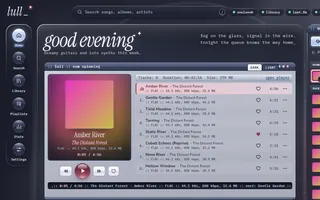
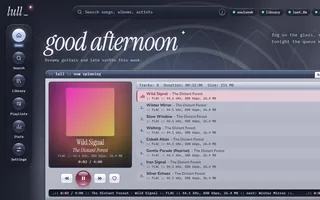
feat(web): glasshouse is a desktop of glass windows standing in a conservatory
The page no longer sits in one big frosted pane: its windows float straight on the
wall, each a near-solid slab of glass with the moonlit rim and a long shadow, and the
wall is now the night seen through a glasshouse's pointed arches (baked into the
four wall pictures). Every window, gadget and the section list ends on a real foot
(a frame strip with a size grip) instead of a sticky one that cut rows and the Home
media window's keys; a page taller than its room fades out at the scroller's two
edges.

Wide screens are used: Stats stacks its windows in as many columns as fit, a
Settings section flows into columns inside its window (each row whole), Home's media
window lists its songs in two columns with covers, Now Playing is a centred
composition with a larger stage and bigger lyrics, and the collapsed side panel is
a capsule of round keys instead of a window-tall empty frame. A short laptop room
compacts the greeting and the deck so the media window is whole on the first screen;
the 1100-1359 side panel dims the page it lies over; the greeting's descender, the
skin tabs over the title-bar beads and the like key on the Now Playing cover no
longer collide; a phone's title bars with links drop their beads instead of
shortening the title. New picker pictures.

Checked at 390, 820, 1280, 1366, 1920 and 2560 px, day and night, with the queue
open and closed (Home, Settings, Stats, Now Playing, album, search, library, menus,
[…]

diff --git a/web/designs/glasshouse/theme.css b/web/designs/glasshouse/theme.css
@@ -1,14 +1,18 @@
-/* glasshouse: a silvery-glass Y2K media desktop after midnight (moodboard 03 + 05 + 01), "after-midnight aero".
-   Everything floats on the misty night: the page is one big frosted pane with a bright moonlit rim, the menu a glass
-   shelf of round keys, the logo, search and buttons stand on the night itself, and the player is a glass console
-   hovering under the page (the song, the rose play orb, the tools in a smoky pill, the seek a dark screen ribbon).
-   Every window on the pane is an aero window with a title bar and glossy beads, and ends on a foot of its own: what it
-   can't show scrolls behind that foot, so no window is ever cut by the page's edge or reaches the console (Windows).
+/* glasshouse: a silvery-glass Y2K media desktop after midnight (moodboard 03 + 05 + 01), "after-midnight aero", standing in
+   a conservatory: the wall behind it is the night seen through a glasshouse's pointed arches of steel and glass.
+   A real desktop: the windows float straight on that wall, each a slab of glass with a bright moonlit rim and a long
+   shadow, and a page spreads them over all the room it has (Stats' windows in columns, a Settings section flowing into
+   columns inside its window, Home's media window listing its songs in two). The menu is a glass shelf of round keys,
+   the logo, search and buttons stand on the night itself, and the player is a glass console hovering under the page
+   (the song, the rose play orb, the tools in a smoky pill, the seek a dark screen ribbon).
+   Every window is an aero window with a title bar and glossy beads and ends on a foot of its own (a frame strip with a
+   size grip), always whole: a page that is taller than its room scrolls under soft fades at its two edges, never
+   behind a fake edge of a window or cut flat by the console. The side panel, collapsed, is a capsule of round keys.
    Now Playing is a stage: the cover floats large with its colours glowing behind it and a faint reflection.
    Night is home, day is pale pearl. Every rule is scoped under :root[data-design="glasshouse"].
    Glass: solid token fills by default; translucency + blur only under @supports (backdrop-filter). Text on glass is
    checked on the worst composite (fill over the darkest / lightest wallpaper stop), see the check: comments.
-   Sections: fonts, tokens, contrast checks, wallpaper + captions, type, windows (the pane, windows, feet), controls,
+   Sections: fonts, tokens, contrast checks, wallpaper + captions, type, windows (the desktop, windows, feet), controls,
    rows + tiles + covers, seek, shell (header, shelf, status gadget, console, queue gadget, tablet), screens (home,
    search, library, stats + settings + welcome, empty states, banners, overlays), now playing (the stage), mini player,
    classic, phone, motion, wide screens, the see-through window. */
@@ -85,11 +89,9 @@
   --gh-lit-1: #eef4ff; --gh-lit-2: #b9cdee; --gh-lit-3: #93b0de; --gh-lit-edge: #4d6696;
   --gh-lcd: linear-gradient(180deg, #232840, #2a3048); --gh-lcd-edge: #1a1e2e;
   --gh-ok: #2f8f5f; --gh-warn: #b07a12; --gh-down: #c0405f; --gh-ring: #f8f8fc;
-  /* the pane (the page's one big frosted sheet), its moonlit rim, and a window's and a gadget's body made solid where
-     its foot fades the rows passing behind it (their glass composited over what lies under it, measured) */
-  --gh-pane: rgba(246, 247, 252, .5); --gh-pane-sheen: rgba(255, 255, 255, .7);
-  --gh-rim-grad: linear-gradient(155deg, rgba(255, 255, 255, 1) 0%, rgba(255, 255, 255, .35) 18%, rgba(255, 255, 255, 0) 42%, rgba(255, 255, 255, 0) 68%, rgba(255, 255, 255, .55) 100%);
-  --gh-win-solid: #f3f4f9; --gh-gadget-solid: #eceef5;
+  /* a page window's body: its glass fill composited over the wall (measured, see the check: comments) and made solid, so
+     the wall's stars and rings never show in it; the lighter stop under its title bar, the gadgets keep their smoky glass */
+  --gh-win-1: #f2f3f8; --gh-win-2: #e9ebf4;
 }
 :root[data-design="glasshouse"][data-theme="night"] {
   --cream: #c9ccd8; --cream-2: #bdc0cd; --cream-3: #b1b4c2;
@@ -129,9 +131,7 @@
   --gh-lit-1: #8ea6d2; --gh-lit-2: #5b75a6; --gh-lit-3: #3f5786; --gh-lit-edge: #c9d6f0;
   --gh-lcd: linear-gradient(180deg, #11131c, #1d2131); --gh-lcd-edge: #0b0d14;
   --gh-ok: #6fd6a0; --gh-warn: #f0c060; --gh-down: #f08aa4; --gh-ring: #2a2e40;
-  --gh-pane: rgba(20, 23, 35, .56); --gh-pane-sheen: rgba(255, 255, 255, .09);
-  --gh-rim-grad: linear-gradient(155deg, rgba(255, 255, 255, .7) 0%, rgba(214, 226, 255, .22) 18%, rgba(255, 255, 255, 0) 42%, rgba(255, 255, 255, 0) 68%, rgba(243, 193, 207, .38) 100%);
-  --gh-win-solid: #a7abba; --gh-gadget-solid: #262a3a;
+  --gh-win-1: #b9bccb; --gh-win-2: #a9acba;
 }
 /* shape, depth and shared recipes (theme-invariant; the var() inside resolve per theme on :root) */
 :root[data-design="glasshouse"] {
@@ -144,12 +144,10 @@
   --stack-press: 0 6px 16px -12px var(--gh-cast);
   /* a slab floating over the night casts a long soft shadow */
   --gh-float: 0 34px 60px -34px var(--gh-cast), 0 10px 22px -16px var(--gh-cast);
-  --gh-r-pane: 26px;
   --gh-barh: 30px;
-  /* a window's foot: the frame strip it ends on, and the mist above it that the rows passing behind fade into */
-  --gh-foot: 11px; --gh-foot-mist: 18px;
-  /* the pane's own foot under its windows, and the room the scroller keeps at its end */
-  --gh-sill: 16px;
+  /* a window's foot: the frame strip it ends on; the sill is the room the page's scroller keeps at its end */
+  --gh-foot: 12px;
+  --gh-sill: 28px;
   --gh-bar: linear-gradient(180deg, var(--gh-bar-1) 0%, var(--gh-bar-2) 48%, var(--gh-bar-3) 52%, var(--gh-bar-4) 100%);
   --gh-lit: linear-gradient(180deg, #eef4ff 0%, #b9cdee 50%, #a9c1e8 51%, #c3d5f1 100%);   /* the lit glass key (ink text) */
   --gh-orb: radial-gradient(120% 90% at 50% 100%, #c97a92 0%, #8e3f58 46%, #6e2a42 74%);    /* rose gloss body (white text) */
@@ -341,7 +339,7 @@
      lens rings left out, as a blur this wide wipes them out (docs/themes.md, Drawing cheaply). So does the AIMP window,
      whose ticker would have its blur redone 20 times a second at rest, and a card showing the empty state's blinking caret
      (Now Playing's lyrics card with no lyrics); it repaints as the page scrolls, which costs less.
-     From tablet up the windows on the pane need no blur at all (the pane, below). Elsewhere (a phone's page, Now
+     From tablet up the windows on the page need no blur at all (they are near solid, below). Elsewhere (a phone's page, Now
      Playing's stage) the other windows move over the wallpaper as the page scrolls, and a fixed wallpaper under each
      would repaint them all on every scroll frame, so they blur live, as do a sheet, a menu, a toast and the queue sliding
      over the page: what is under them moves. Each rule weighs what the glass rule above weighs (:where), so a window's
@@ -359,12 +357,12 @@
   }
 }
 
-/* the refraction rim of every floating slab (the pane, the shelf, the console, the gadgets, the media window): a 1.5 px
+/* the refraction rim of every floating slab (the shelf, the console, the gadgets, the media window): a 1.5 px
    gradient ring over its own border, bright where the moon catches it (top left), drawn by a pseudo-element that only
    paints the ring. It lies under the slab's own content (the slab is a stacking context of its own): a ring drawn
-   over it would be a layer of its own wherever something composited (a window rising in, a sticky foot) passes under */
-:root[data-design="glasshouse"] :is(.main, .rail, .pbar, .ctx, .nowcol, .gh-np__win) { isolation: isolate; }
-:root[data-design="glasshouse"] :is(.main, .rail, .pbar, .ctx, .nowcol, .gh-np__win)::after {
+   over it would be a layer of its own wherever something composited (a window rising in) passes under */
+:root[data-design="glasshouse"] :is(.rail, .pbar, .ctx, .nowcol, .gh-np__win) { isolation: isolate; }
+:root[data-design="glasshouse"] :is(.rail, .pbar, .ctx, .nowcol, .gh-np__win)::after {
   content: ""; position: absolute; inset: 0; z-index: -1; border-radius: inherit; padding: 1.5px; pointer-events: none;
   background: var(--gh-rim-grad);
   -webkit-mask: linear-gradient(#000 0 0) content-box, linear-gradient(#000 0 0); -webkit-mask-composite: xor;
@@ -372,9 +370,8 @@
 }
 
 /* every card is a window: its head (visible or the revealed hidden one) becomes the aero title bar over an in-flow
-   spacer as tall as the bar and 18 px of air (--gh-air), not over a padding, so the window's foot can rise all the
-   way to its top: a window only just come in from below shows its own foot, rolled up under its bar, never a bar cut
-   by the page's edge. --gh-pad is its padding, which its foot reaches across */
+   spacer as tall as the bar and 18 px of air (--gh-air), not over a padding. --gh-pad is its padding, which its foot
+   reaches across */
 :root[data-design="glasshouse"] .card {
   border: 1px solid var(--gh-frame); border-radius: var(--r-card);
   box-shadow: inset 0 1px 0 var(--gh-rim), inset 0 0 0 1px color-mix(in srgb, var(--gh-rim) 45%, transparent), var(--stack);
@@ -385,58 +382,48 @@
 }
 :root[data-design="glasshouse"] .card::before { content: ""; display: block; flex: none; grid-column: 1 / -1; height: calc(var(--gh-barh) + var(--gh-air, 18px)); }
 :root[data-design="glasshouse"] .card--flush { --gh-pad: 0px; --gh-air: 0px; }
-/* a window's foot: whatever the window can't show scrolls behind it. It sticks to its scroller's foot, so a window
-   taller than its room ends there on its own frame, never on the page's edge or under the console; at rest it is the
-   window's bottom edge, under the window's padding. The mist over its frame strip (the window's body made solid,
-   --gh-foot-solid) fades the rows passing behind it, and a size grip sits in its corner. A grid window spans it across
-   its columns. The gadgets and Settings' section list end on the same foot (below) */
-:root[data-design="glasshouse"] .card { --gh-foot-solid: var(--gh-win-solid); --gh-foot-r: var(--r-card); }
+/* a window's foot: the frame strip every window (and every gadget) ends on, a real edge with a size grip in its corner.
+   It sits after the window's last row, so a window is always whole: what a page or a list can't show scrolls off its
+   scroller's soft edge (the fade below), never behind a fake edge of the window's own. A grid window spans it across its
+   columns. --gh-pad is the window's padding, which its foot reaches across */
+:root[data-design="glasshouse"] .card { --gh-foot-r: var(--r-card); }
 :root[data-design="glasshouse"] .card::after,
 :root[data-design="glasshouse"] :is(.ctx, .nowcol)::before,
 :root[data-design="glasshouse"] .sys-nav::after {
-  content: ""; display: block; flex: none; height: calc(var(--gh-foot-mist) + var(--gh-foot)); pointer-events: none;
+  content: ""; display: block; flex: none; height: var(--gh-foot); pointer-events: none;
   border-radius: 0 0 calc(var(--gh-foot-r) - 1px) calc(var(--gh-foot-r) - 1px);
   background:
     radial-gradient(circle, var(--gh-frame) 0 .9px, transparent 1.3px) right 5px bottom 2px / 4px 4px no-repeat,
     radial-gradient(circle, var(--gh-frame) 0 .9px, transparent 1.3px) right 9px bottom 2px / 4px 4px no-repeat,
     radial-gradient(circle, var(--gh-frame) 0 .9px, transparent 1.3px) right 5px bottom 6px / 4px 4px no-repeat,
-    linear-gradient(var(--gh-frame), var(--gh-frame)) 0 calc(100% - var(--gh-foot)) / 100% 1px no-repeat,
-    linear-gradient(180deg, color-mix(in srgb, #fff 55%, var(--gh-bar-2)), var(--gh-bar-2) 40%, var(--gh-bar-4)) 0 100% / 100% var(--gh-foot) no-repeat,
-    linear-gradient(180deg, color-mix(in srgb, var(--gh-foot-solid) 0%, transparent), var(--gh-foot-solid)) 0 0 / 100% var(--gh-foot-mist) no-repeat;
+    linear-gradient(var(--gh-frame), var(--gh-frame)) 0 0 / 100% 1px no-repeat,
+    linear-gradient(180deg, color-mix(in srgb, #fff 55%, var(--gh-bar-2)), var(--gh-bar-2) 40%, var(--gh-bar-4));
 }
-:root[data-design="glasshouse"] .card::after {
-  position: sticky; bottom: 0; z-index: 2; grid-column: 1 / -1;
-  margin: max(0px, calc(var(--gh-pad) - var(--gh-foot-mist))) calc(-1 * var(--gh-pad)) calc(-1 * var(--gh-pad));
-}
+:root[data-design="glasshouse"] .card::after { grid-column: 1 / -1; margin: var(--gh-pad) calc(-1 * var(--gh-pad)) calc(-1 * var(--gh-pad)); }
 /* grid windows keep their own top padding (a spacer would take a grid cell) */
 :root[data-design="glasshouse"] .card:is(.gh-aimp, .sys-tile)::before { display: none; }
 
-/* the page: from tablet up, one frosted pane floating on the night, baked (it never moves) with the rim and a long
-   shadow; its windows are lighter sheets of the same frost with no blur of their own (the pane under them is already
-   frosted and still), so a scroll costs no blur at all. Its scroller ends --gh-sill above the pane's lower edge: the
-   windows' feet ride there, on the pane's own glass. The scroller keeps that much room at its end, so the last window
-   rests whole above it. Now Playing has no pane: its stage stands on the night (below). The pane is a size container
+/* the page is a desktop: its windows float straight on the night, each with the rim and the long shadow of a slab of
+   glass, no sheet under them. The scroller (.view) runs the height of the room above the console and its two edges fade
+   out (a mask: one static layer), so a window that scrolls off is never cut flat by a line, and a window is always whole
+   inside it: it ends on its own foot (above). A window's fill is nearly solid: windows stand apart on the wall, so there
+   is nothing behind one to blur, and the wall's stars and lens rings stay out of them. The scroller is a size container
    (still named main), so what must fit its room can read its height (100cqb). */
-:root[data-design="glasshouse"] .main > .view { padding-bottom: 0; }
+:root[data-design="glasshouse"] .main > .view { padding-bottom: 0; --gh-fade-t: 20px; --gh-fade-b: 36px;
+  -webkit-mask-image: linear-gradient(180deg, transparent 0, #000 var(--gh-fade-t), #000 calc(100% - var(--gh-fade-b)), transparent 100%);
+  mask-image: linear-gradient(180deg, transparent 0, #000 var(--gh-fade-t), #000 calc(100% - var(--gh-fade-b)), transparent 100%); }
 :root[data-design="glasshouse"] .main > .view::after { content: ""; display: block; height: var(--gh-sill); }
 @media (min-width: 640px) {
-  :root[data-design="glasshouse"] .main {
-    container-type: size; border: 1px solid var(--gh-frame); border-radius: var(--gh-r-pane); margin-bottom: 18px;
-    background: linear-gradient(162deg, var(--gh-pane-sheen) 0%, transparent 26%), linear-gradient(var(--gh-pane) 0 0), var(--gh-wall);
-    background-attachment: scroll, scroll, var(--gh-wall-at);
-    box-shadow: inset 0 1px 0 var(--gh-rim), inset 0 0 0 1px color-mix(in srgb, var(--gh-rim) 18%, transparent), inset 0 40px 60px -50px color-mix(in srgb, #fff 40%, transparent), var(--gh-float);
-  }
-  :root[data-design="glasshouse"] .main > .view { border-radius: calc(var(--gh-r-pane) - 1.5px) calc(var(--gh-r-pane) - 1.5px) 0 0; padding: 22px 24.5px 0; margin: 1.5px 1.5px var(--gh-sill); scroll-padding-top: 22px; }
+  :root[data-design="glasshouse"] .main { container-type: size; margin-bottom: 18px; }
+  :root[data-design="glasshouse"] .main > .view { padding: 22px 30px 0; margin: 0; scroll-padding-top: 22px; }
   :root[data-design="glasshouse"] .app:not([data-screen="now"]) .main .card {
     -webkit-backdrop-filter: none; backdrop-filter: none;
-    background: linear-gradient(128deg, var(--gh-sheen) 0%, transparent 34%), linear-gradient(180deg, var(--gh-glass-card) 0%, var(--gh-glass-card-2) 100%);
-    box-shadow: inset 0 1px 0 var(--gh-rim), inset 0 0 0 1px color-mix(in srgb, var(--gh-rim) 40%, transparent), 0 18px 34px -26px var(--gh-cast);
+    background: linear-gradient(128deg, var(--gh-sheen) 0%, transparent 34%), linear-gradient(180deg, var(--gh-win-1) 0%, var(--gh-win-2) 100%);
+    box-shadow: inset 0 1px 0 var(--gh-rim), inset 0 0 0 1px color-mix(in srgb, var(--gh-rim) 40%, transparent), var(--gh-float);
   }
-  :root[data-design="glasshouse"] .app[data-screen="now"] .main { background: none; border-color: transparent; box-shadow: none; }
-  :root[data-design="glasshouse"] .app[data-screen="now"] .main > .view { padding: 8px 8px 0; margin-bottom: 0; }
+  :root[data-design="glasshouse"] .app[data-screen="now"] .main > .view { padding: 8px 8px 0; margin-bottom: 0; --gh-fade-t: 8px; }
 }
-@media (max-width: 639px) { :root[data-design="glasshouse"] .main::after { display: none; } }
-:root[data-design="glasshouse"] .app[data-screen="now"] .main::after { display: none; }
+@media (max-width: 639px) { :root[data-design="glasshouse"] .main > .view { --gh-fade-t: 8px; --gh-fade-b: 24px; } }
 /* one title-bar recipe for windows, sheets, gadgets and the queue */
 :root[data-design="glasshouse"] :is(.card > .card-head, .sheet__head, .ctx > .region-title, .nowcol__head, .sys-tile__label) {
   color: var(--gh-bar-ink); border-bottom: 1px solid var(--gh-frame); background: var(--gh-bar);
@@ -805,7 +792,7 @@
   :root[data-design="glasshouse"] .header .tray__pill .sg { --gh-ring: var(--panel); --gh-ok: inherit; --gh-warn: inherit; --gh-down: inherit; }
 }
 
-/* desktop (>= 1100): the desktop icons are a floating glass shelf of round keys beside the pane, the status gadget
+/* desktop (>= 1100): the desktop icons are a floating glass shelf of round keys beside the page, the status gadget
    under it */
 @media (min-width: 1100px) {
   :root[data-design="glasshouse"][data-shell="dock"] .header__brand { flex: 1 1 0; }
@@ -917,13 +904,21 @@
 :root[data-design="glasshouse"] .ctx .label-rule--sm > :is(h2, h3) { flex: 1; color: var(--fg-panel); }
 :root[data-design="glasshouse"] .ctx .label-rule--sm .label-rule__end { font: 500 .75rem/1 var(--f-px); color: var(--fg-panel-2); }
 :root[data-design="glasshouse"] .ctx .trow { --art: 36px; min-height: 46px; }
-/* the gadget's foot: the window's foot recipe (above) at the gadget's lower edge, its rows fading into the gadget's
-   smoky glass over it; the body keeps room at its end, so its last row scrolls clear of the mist */
-:root[data-design="glasshouse"] :is(.ctx, .nowcol) { --gh-foot-solid: var(--gh-gadget-solid); --gh-foot-r: var(--r-panel); }
-:root[data-design="glasshouse"] :is(.ctx, .nowcol)::before { position: relative; z-index: 2; order: 99; margin-top: calc(-1 * var(--gh-foot-mist)); }
-:root[data-design="glasshouse"] :is(.ctx__body, .nowcol__body) { padding-bottom: calc(var(--gh-foot-mist) + 6px); }
+/* the gadget's foot: the window's foot recipe (above) at the gadget's lower edge; its rows fade out in the last 26 px of
+   the body, never cut flat, and the body keeps room at its end so the last row scrolls clear of the fade */
+:root[data-design="glasshouse"] :is(.ctx, .nowcol) { --gh-foot-r: var(--r-panel); }
+:root[data-design="glasshouse"] :is(.ctx, .nowcol)::before { order: 99; }
+:root[data-design="glasshouse"] :is(.ctx__body, .nowcol__body) { padding-bottom: 26px;
+  -webkit-mask-image: linear-gradient(180deg, #000 calc(100% - 26px), transparent); mask-image: linear-gradient(180deg, #000 calc(100% - 26px), transparent); }
+/* collapsed while docked (the strip of keys): the gadget shrinks to a capsule of round glass keys under the header, as
+   the shelf is on the other side, not a window-tall frame with nothing in it */
+:root[data-design="glasshouse"] .app[data-panel="strip"] .ctx, :root[data-design="glasshouse"] .app[data-nowcol="strip"] .nowcol {
+  align-self: start; height: max-content; min-height: 0; border-radius: 30px; }
+:root[data-design="glasshouse"] :is(.app[data-panel="strip"] .ctx, .app[data-nowcol="strip"] .nowcol)::before { display: none; }
+:root[data-design="glasshouse"] :is(.ctx__strip, .nowcol__strip) { gap: 10px; padding: 14px 0; }
+:root[data-design="glasshouse"] :is(.ctx__strip, .nowcol__strip) .btn-icon { width: 44px; height: 44px; border-radius: 50%; }
 
-/* the console: the player is a glass capsule hovering under the pane, centred, no wider than it reads well. Two tiers:
+/* the console: the player is a glass capsule hovering under the page, centred, no wider than it reads well. Two tiers:
    the song, the transport around the rose orb and the tools in a smoky pill of their own; under them the seek runs the
    whole width as a dark screen ribbon set into the glass, headed by what the stream is doing. The transport stays on
    the bar's centre line (the sides are lull's equal --fit-side columns). A phone has the mini player instead */
@@ -1030,6 +1025,12 @@
   background: linear-gradient(180deg, #e9ebf3, #b9bfd1); box-shadow: inset 0 1px 0 #fff; }
 :root[data-design="glasshouse"] .bezel-thumb .cover { border-radius: 5px; }
 
+/* 1100 to 1359: the side panel lies over the page (no room beside it): the page under it dims a little, so what it
+   covers reads as behind it, not as cut. A click on the dimmed page closes the panel, as lull does */
+@media (min-width: 1100px) and (max-width: 1359px) {
+  :root[data-design="glasshouse"] .app[data-ctx="open"] .ctx-scrim { opacity: .34; }
+}
+
 /* tablet (640-1099): the shelf is lull's floating dock under the console, its keys round; compact search field */
 @media (min-width: 640px) and (max-width: 1099px) {
   :root[data-design="glasshouse"][data-shell="dock"] .rail { border-radius: 999px; padding: 5px 9px; box-shadow: inset 0 1px 0 var(--gh-rim), var(--gh-float); }
@@ -1046,13 +1047,25 @@
    ===================================================================== */
 :root[data-design="glasshouse"] .disc-hello { margin: 0 0 var(--sp-4); padding-right: 0; }
 :root[data-design="glasshouse"] .disc-hello h1 { margin-bottom: 4px; }
-:root[data-design="glasshouse"] .disc-home > .disc-hello h1 { font-size: 3.75rem; }
+:root[data-design="glasshouse"] .disc-home > .disc-hello h1 { font-size: 3.75rem; margin-bottom: .16em; }
 :root[data-design="glasshouse"] .disc-hello__sum { max-width: 58ch; }
 :root[data-design="glasshouse"] .disc-lead { margin-bottom: var(--sp-5); }
 /* the greeting is the night's headline, enormous italic serif */
 @container main (min-width: 720px) {
   :root[data-design="glasshouse"] .disc-home > .disc-hello { margin-bottom: var(--sp-6); }
-  :root[data-design="glasshouse"] .disc-home > .disc-hello h1 { font-size: clamp(4rem, 8cqi, 7rem); line-height: .9; letter-spacing: -.02em; }
+  :root[data-design="glasshouse"] .disc-home > .disc-hello h1 { font-size: clamp(4rem, 8cqi, 7rem); line-height: .9; letter-spacing: -.02em; margin-bottom: .16em; }   /* the g's tail clears the line under it */
+}
+
+/* a short room (a laptop): the greeting is a line, so the media window's whole deck is on the first screen */
+@container main (max-height: 640px) {
+  :root[data-design="glasshouse"] .disc-home > .disc-hello { margin-bottom: var(--sp-3); }
+  :root[data-design="glasshouse"] .disc-home > .disc-hello h1 { font-size: 3rem; }
+  :root[data-design="glasshouse"] .gh-aimp__lcd { --gh-deck-art: 120px; padding: 10px 10px 8px; gap: 4px; }
+  :root[data-design="glasshouse"] .gh-aimp__title { font-size: 1.375rem; }
+  :root[data-design="glasshouse"] .gh-aimp__artist { font-size: 1.0625rem; }
+  :root[data-design="glasshouse"] .gh-aimp__deck { gap: 8px; }
+  :root[data-design="glasshouse"] .gh-aimp__ticker { display: none; }
+  :root[data-design="glasshouse"] .gh-aimp .trow:nth-child(n+7) { display: none; }
 }
 
 /* the media window: LCD deck | header strip + numbered list; ticker on the bottom edge */
@@ -1061,7 +1074,7 @@
   --gh-pad: 12px; padding-top: calc(var(--gh-barh) + 12px);
 }
 :root[data-design="glasshouse"] .gh-aimp__bar { padding-right: 58px; }
-:root[data-design="glasshouse"] .gh-aimp__bar .gh-skin { top: 5px; right: 60px; }
+:root[data-design="glasshouse"] .gh-aimp__bar .gh-skin { top: 5px; right: 76px; }   /* clear of the three beads (23 to 64 px from the edge) */
 :root[data-design="glasshouse"] .gh-aimp__deck { grid-area: deck; display: grid; align-content: start; gap: 10px; min-width: 0; }
 /* the deck's LCD: the cover, with its own colour glowing into the screen from a blurred copy behind it (static, drawn
    once). The copy shares the cover's cell and its size (--gh-deck-art), so both ask the hub for the same picture */
@@ -1111,6 +1124,15 @@
 :root[data-design="glasshouse"] .gh-aimp .trow__fmt { display: block; grid-column: 1 / -1; font-size: .6875rem; }
 :root[data-design="glasshouse"] .gh-aimp :is(.trow__badges, .trow__album) { display: none; }
 :root[data-design="glasshouse"] .gh-aimp .trow .btn-icon { width: 32px; height: 32px; }
+/* a wide window shows its list in two columns of four, each row with its cover: the song numbers still read down the
+   first column and on, so the window keeps its height and its rows keep their reach */
+@container main (min-width: 1240px) {
+  :root[data-design="glasshouse"] .gh-aimp { grid-template-columns: 330px minmax(0, 1fr); gap: 14px 22px; }
+  :root[data-design="glasshouse"] .gh-aimp__list { grid-template-rows: auto minmax(0, 1fr); }
+  :root[data-design="glasshouse"] .gh-aimp .tlist { display: grid; grid-template-columns: repeat(2, minmax(0, 1fr)); grid-template-rows: repeat(4, minmax(58px, 1fr)); grid-auto-flow: column; column-gap: 22px; }
+  :root[data-design="glasshouse"] .gh-aimp .trow { grid-template-columns: 22px 44px minmax(0, 1fr) 34px 44px 34px; grid-template-areas: "num art main like dur more"; min-height: 58px; }
+  :root[data-design="glasshouse"] .gh-aimp .trow__art { display: block; --art: 40px; }
+}
 /* tickers: one mono line that scrolls like img 03's footer; paused on hover / focus, static (ellipsised) under reduced motion */
 :root[data-design="glasshouse"] .gh-ticker { overflow: hidden; border-radius: 6px; padding: 4px 0; font: 500 .75rem/1.3 var(--f-px); letter-spacing: .02em; white-space: nowrap; }
 :root[data-design="glasshouse"] .gh-ticker__track { display: flex; width: max-content; animation: gh-tick 34s steps(680) infinite; animation-play-state: var(--loop-play, running); }   /* 20 steps a second: about a pixel each */
@@ -1184,22 +1206,35 @@
 :root[data-design="glasshouse"] .sys-bar { height: 9px; background: color-mix(in srgb, var(--bg-2) 70%, var(--line)); box-shadow: inset 0 1px 2px var(--gh-cast); }
 :root[data-design="glasshouse"] .sys-bar > i { background: linear-gradient(90deg, var(--gh-lit-3), var(--gh-lit-2)); box-shadow: inset -4px 0 0 var(--gh-rose), inset 0 1px 0 rgba(255, 255, 255, .5); }
 /* settings: the section list is a smoky gadget window too. It stays in view while a section scrolls (lull keeps it
-   sticky), so from tablet up it is never taller than the pane's room: its list scrolls inside it, above the gadget's
+   sticky), so from tablet up it is never taller than the page's room: its list scrolls inside it, above the gadget's
    foot */
 :root[data-design="glasshouse"] .sys-nav { display: flex; flex-direction: column; padding: calc(var(--gh-barh) + 8px) var(--sp-2) 0; border-color: var(--gh-frame); overflow: clip;
-  --gh-foot-solid: var(--gh-gadget-solid); --gh-foot-r: var(--r-panel); }
+  --gh-foot-r: var(--r-panel); }
 :root[data-design="glasshouse"] .sys-nav::before {
   content: ":: sections"; position: absolute; left: 0; right: 0; top: 0; height: var(--gh-barh); padding: 0 12px; display: flex; align-items: center;
   background: var(--gh-beads) right 10px center / 41px 11px no-repeat, var(--gh-bar); border-bottom: 1px solid var(--gh-frame);
   color: var(--gh-bar-ink); font: 600 .8125rem/1 var(--f-px); letter-spacing: .03em; text-shadow: 0 1px 0 var(--gh-bar-shadow);
 }
-:root[data-design="glasshouse"] .sys-nav > ul { flex: 1 1 auto; min-height: 0; overflow-y: auto; padding-bottom: calc(var(--gh-foot-mist) + 4px); scrollbar-width: thin; }
-/* its foot sticks to the page's foot, as a window's does, where the list is the page (a phone's Settings) */
-:root[data-design="glasshouse"] .sys-nav::after { position: sticky; bottom: 0; z-index: 2; margin: calc(-1 * var(--gh-foot-mist)) calc(-1 * var(--sp-2)) 0; }
-/* its room: the pane's (100cqb) less the pane's padding, its sill and the air under the gadget, and less the page's
+:root[data-design="glasshouse"] .sys-nav > ul { flex: 1 1 auto; min-height: 0; overflow-y: auto; padding-bottom: 8px; scrollbar-width: thin; }
+/* its foot is the gadget's own edge, reaching across its padding */
+:root[data-design="glasshouse"] .sys-nav::after { margin: 0 calc(-1 * var(--sp-2)); }
+/* its room: the page's (100cqb) less its padding, its sill and the air under the gadget, and less the page's
    heading over it (the title and its one-line lede, 6.5rem), so it ends whole before the page has scrolled */
 @media (min-width: 640px) { :root[data-design="glasshouse"] .sys-nav { max-height: calc(100cqb - 22px - var(--gh-sill) - 18px - 6.5rem); } }
 :root[data-design="glasshouse"] .sys-nav__item { border-radius: 8px; }
+/* a wide desktop is used, not left empty: the page's windows spread over the room they have. Stats' windows stack in
+   columns as many as the room fits (a short window never leaves a hole beside a tall one), the taste window across all
+   of them; a Settings section, which is one tall window, flows into columns inside itself, each row whole, and the
+   section list stays at its side */
+:root[data-design="glasshouse"] .sys-page { max-width: none; }
+:root[data-design="glasshouse"] .sys-stats .sys-grid { display: block; columns: 3 440px; column-gap: var(--sp-6); }
+:root[data-design="glasshouse"] .sys-stats .sys-grid > .card { break-inside: avoid; margin-bottom: var(--sp-6); }
+:root[data-design="glasshouse"] .sys-stats .sys-grid > .sys-span { column-span: all; }
+:root[data-design="glasshouse"] .sys-stats .sys-grid > .sys-span:not(#sys-taste) { column-span: none; }
+:root[data-design="glasshouse"] .sys-section { column-width: 640px; column-gap: 56px; column-rule: 1px solid color-mix(in srgb, var(--line) 38%, transparent); }
+:root[data-design="glasshouse"] .sys-section::before, :root[data-design="glasshouse"] .sys-section::after { column-span: all; }
+:root[data-design="glasshouse"] .sys-section :is(.sys-row, .switch-row, .sys-note, .sys-follows li) { break-inside: avoid; }
+:root[data-design="glasshouse"] .sys-section :is(.label-rule, .sys-group > :first-child) { break-after: avoid; }
 /* cache legend: two wide columns so "Playing and queued" and its figure each stay on one line */
 :root[data-design="glasshouse"] .sys-usage__legend { grid-template-columns: repeat(auto-fill, minmax(230px, 1fr)); }
 :root[data-design="glasshouse"] .sys-usage__legend .num { white-space: nowrap; }
@@ -1368,7 +1403,7 @@
    --gh-art is the cover's side: from tablet up the room above the console sets it (the stage, below) */
 :root[data-design="glasshouse"] .gh-np { --gh-art: 300px; --gh-art-top: 16px;
   position: relative; display: grid; justify-items: center; max-width: 440px; margin-inline: auto; }
-:root[data-design="glasshouse"] .gh-np__stage { position: relative; width: min(var(--gh-art), 100%); aspect-ratio: 1; margin: var(--gh-art-top) 0 calc(var(--gh-art) * .06); isolation: isolate; }
+:root[data-design="glasshouse"] .gh-np__stage { position: relative; width: min(var(--gh-art), 100%); aspect-ratio: 1; margin: var(--gh-art-top) 0 max(26px, calc(var(--gh-art) * .06)); isolation: isolate; }
 :root[data-design="glasshouse"] .gh-np__like { position: absolute; z-index: 2; top: calc(var(--gh-art-top) + min(var(--gh-art), 100%) - 30px); left: calc(50% + min(var(--gh-art), 100%) / 2 - 30px); }
 :root[data-design="glasshouse"] .gh-np__like .device__key { position: static; display: block; }
 :root[data-design="glasshouse"] .gh-np__like .btn-gloss { --size: 46px; }
@@ -1470,7 +1505,7 @@
 :root[data-design="glasshouse"] .now-lycard .now-ly__view { margin-top: 0; }
 :root[data-design="glasshouse"] .now-ly__tag { border-width: 1px; border-radius: 4px; font-size: .75rem; }
 :root[data-design="glasshouse"][data-theme="night"] .now-lycard {
-  --fg: #c6cde0; --fg-2: #8d93aa; --bg-2: #262b3d; --link: #a9c3ea; --edge: #5b6380; --divider: #2c3246; --focus: #f4f5fb; --gh-win-solid: #171a27;
+  --fg: #c6cde0; --fg-2: #8d93aa; --bg-2: #262b3d; --link: #a9c3ea; --edge: #5b6380; --divider: #2c3246; --focus: #f4f5fb;
   background: repeating-linear-gradient(180deg, rgba(160, 190, 240, .04) 0 1px, transparent 1px 3px),
     radial-gradient(100% 60% at 70% 0%, #262c42 0%, #1a1e2c 60%, #161925 100%);
   box-shadow: inset 0 0 0 1px #3a4058, inset 0 1px 0 rgba(255, 255, 255, .12), var(--stack);
@@ -1511,7 +1546,7 @@
   :root[data-design="glasshouse"] .now__dev { align-self: stretch; min-height: 0; contain: size; scroll-snap-align: start; }
   :root[data-design="glasshouse"] .now__dev > .gh-np { height: 100%; grid-template-rows: minmax(0, 1fr) auto; container-type: inline-size; }
   :root[data-design="glasshouse"] .now__dev :is(.gh-np__stage, .gh-np__like) {
-    grid-area: 1 / 1; align-self: end; width: auto; height: min(100% - var(--gh-art-top) - 14px, 360px, 100cqi); aspect-ratio: 1; margin: 0 0 14px;
+    grid-area: 1 / 1; align-self: end; width: auto; height: min(100% - var(--gh-art-top) - 28px, 360px, 100cqi); aspect-ratio: 1; margin: 0 0 28px;
   }
   :root[data-design="glasshouse"] .now__dev .gh-np__like { position: relative; top: auto; left: auto; pointer-events: none; }
   :root[data-design="glasshouse"] .now__dev .gh-np__like .device__key { position: absolute; inset: auto -16px -16px auto; pointer-events: auto; }
@@ -1538,6 +1573,15 @@
     :root[data-design="glasshouse"] .now-lycard .now-ly__scroll { padding-top: var(--sp-2); }
     :root[data-design="glasshouse"] .now-lycard .now-ly__foot { min-height: 30px; padding-top: 4px; }
   }
+}
+/* a wide stage stays a composition, centred on the night: the stage and its player window keep a column of their own,
+   larger as the room allows, the title, its keys and the lyrics (bigger lines) take the rest up to a measure that reads */
+:root[data-design="glasshouse"] .now { max-width: 1680px; margin-inline: auto; }
+@container now (min-width: 1300px) {
+  :root[data-design="glasshouse"] .now__grid { grid-template-columns: minmax(360px, 480px) minmax(0, 1fr); column-gap: 56px; }
+  :root[data-design="glasshouse"] .now__dev :is(.gh-np__stage, .gh-np__like) { height: min(100% - var(--gh-art-top) - 28px, 440px, 100cqi); }
+  :root[data-design="glasshouse"] .now-dev { max-width: 480px; }
+  :root[data-design="glasshouse"] .now-lycard .now-ly { --ly-size: calc(1.375rem + var(--ly-step, 0) * .125rem); }
 }
 /* =====================================================================
    Desktop mini player window (desktop/window.html): window buttons sit in the title bar, so no beads there
@@ -1588,6 +1632,8 @@
   :root[data-design="glasshouse"] .tab[aria-current="page"] .ic { background: var(--gh-lit); box-shadow: inset 0 0 0 1px var(--gh-lit-edge); }
   :root[data-design="glasshouse"] .disc-home > .disc-hello h1 { font-size: 2.75rem; }
   :root[data-design="glasshouse"] .card { --gh-air: 12px; }
+  /* a title bar that carries links keeps its room for the title: the beads (decoration) go */
+  :root[data-design="glasshouse"] .card > .card-head:has(> .btn--quiet, > a, > .label-rule__end)::after { display: none; }
   :root[data-design="glasshouse"] .sys-tile__value { font-size: 1.375rem; white-space: nowrap; }
   /* home media window: one LCD row (cover + title), the strip, four rows, the ticker; the mini player has the keys */
   :root[data-design="glasshouse"] .gh-aimp { grid-template-columns: minmax(0, 1fr); grid-template-areas: "deck" "list" "tick"; --gh-pad: 10px; padding-top: calc(var(--gh-barh) + 10px); }
@@ -1651,7 +1697,7 @@
 /* =====================================================================
    The see-through window (docs/themes.md section 12). Glasshouse asks for none: its misty night is the world. A theme
    that extends it and asks for one gets the real desktop where the night was, behind the system's glass and lull's
-   --window-backdrop: the glass that is baked from the wallpaper (the pane, the shelf, the console, the gadgets, the
+   --window-backdrop: the glass that is baked from the wallpaper (the shelf, the console, the gadgets, the
    AIMP window) drops the wallpaper it redraws under its tint, so it frosts the desktop through the window instead of
    painting a night that is no longer there. Its tints stay, so its text keeps the contrast checked above over the
    backdrop's own (themes.md: 0.85 of the page colour by default)
